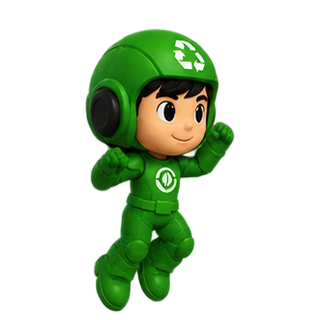
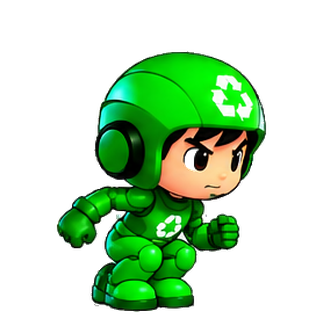
feat adiciona movimentação dos personnagens

diff --git a/frontend/src/game/playerAnim.ts b/frontend/src/game/playerAnim.ts
@@ -18,18 +18,18 @@ export type PlayerState =
   | 'idle' | 'walk' | 'run'
   | 'jumpStart' | 'jumpRise' | 'jumpApex' | 'fall' | 'landing'
   | 'attackStart' | 'attack' | 'attackRecovery'
-  | 'hurt' | 'death' | 'victory' | 'interact' | 'collect' | 'special' | 'climb';
+  | 'hurt' | 'death' | 'victory' | 'interact' | 'collect' | 'special' | 'climb' | 'crouch';
 
 /** Tempos (s) compartilhados com o motor, para pose e efeito acontecerem no mesmo instante. */
 export const HURT_TIME = 0.45;
 export const LAND_TIME = 0.2;
 export const JUMP_START_TIME = 0.07;
-export const ATTACK_START_END = 0.05;   // fim da mira (quadro 0)
+export const ATTACK_START_END = 0.06;   // fim da mira (quadro 0)
 /** Instante em que o tiro realmente sai (primeiro quadro "ativo" do golpe). */
 export const ATTACK_FIRE_T = ATTACK_START_END;
-export const ATTACK_ACTIVE_END = 0.11;  // fim do clarão de saída (quadro 1)
+export const ATTACK_ACTIVE_END = 0.12;  // fim do clarão de saída (quadro 1)
 /** Dentro da recuperação: até aqui o quadro é a rajada (2), depois o brilho se dissipando (3). */
-export const ATTACK_BLAST_END = 0.18;
+export const ATTACK_BLAST_END = 0.19;
 export const ATTACK_TOTAL = 0.28;       // fim da recuperação
 export const SPECIAL_TIME = 0.4;
 export const INTERACT_TIME = 0.45;
@@ -44,6 +44,8 @@ export interface AnimInput {
   shootT: number; specialT: number; interactT: number;
   /** Verdadeiro durante a comemoração ao chegar no portal. */
   victory: boolean;
+  /** Seta para baixo segurada (opcional): no chão e parado, o herói agacha. */
+  crouch?: boolean;
 }
 
 export interface AnimOutput { state: PlayerState; name: string }
@@ -111,6 +113,7 @@ export class PlayerAnim {
     if (i.shootT < ATTACK_TOTAL) return i.shootT < ATTACK_START_END ? 'attackStart' : i.shootT < ATTACK_ACTIVE_END ? 'attack' : 'attackRecovery';
     if (i.landT > 0 && !(LAND_TIME - i.landT > 0.07 && sp > 20)) return 'landing';
     if (i.interactT > 0 && sp < 60) return 'interact';
+    if (i.crouch && sp < 25) return 'crouch';
 
     const was = this.state;
     const moving = was === 'walk' || was === 'run' ? sp > 12 : sp > 25;
@@ -131,6 +134,7 @@ export class PlayerAnim {
       case 'fall': return this.stateT < 0.1 ? 'p_fall_0' : i.vy >= 650 ? 'p_fall_2' : f % 2 ? 'p_fall_3' : 'p_fall_1';
       case 'victory': return i.vy < -300 ? 'p_jump_1' : i.vy < 0 ? 'p_jump_3' : i.vy < 200 ? 'p_jump_4' : 'p_fall_0';
       case 'landing': return `p_land_${clamp(Math.floor((LAND_TIME - i.landT) * 15), 0, 2)}`;
+      case 'crouch': return 'p_land_1';
       case 'attackStart': return 'p_shoot_0';
       case 'attack': return 'p_shoot_1';
       case 'attackRecovery': return 'p_shoot_2';
@@ -159,7 +163,11 @@ export function heroPose(state: PlayerState, i: HeroPoseInput): { anim: string; 
     case 'attack': return { anim: 'attack', index: 1 };
     case 'attackRecovery': return { anim: 'attack', index: ATTACK_ACTIVE_END + i.stateT < ATTACK_BLAST_END ? 2 : 3 };
     case 'jumpStart': return { anim: 'jump', index: 0 };
-    case 'jumpRise': case 'jumpApex': case 'victory': return { anim: 'jump', index: 1 };
+    // subida: impulso forte (1) e depois a subida mais lenta (2); no ápice o quadro 3; vitória no ar usa a subida
+    case 'jumpRise': return { anim: 'jump', index: i.vy < -520 ? 1 : 2 };
+    case 'jumpApex': return { anim: 'jump', index: 3 };
+    case 'victory': return { anim: 'jump', index: 2 };
+    case 'crouch': return { anim: 'crouch', index: clamp(Math.floor(i.stateT * 14), 0, 2) };
     case 'fall': return { anim: 'fall', index: Math.floor(i.stateT * 8) };
     // a pose agachada só vale com o herói quase parado; correndo, segue o ciclo de corrida
     case 'landing': return i.speed > 60 ? moving() : { anim: 'land', index: i.landT > LAND_TIME / 2 ? 0 : 1 };

diff --git a/frontend/src/game/engine.ts b/frontend/src/game/engine.ts
@@ -560,7 +560,7 @@ export class Engine {
     const f = this.anim.update({
       t: p.animT, onGround: p.onGround, vx: p.vx, vy: p.vy, climbing: p.climbing, climbMoving: k.up || k.down || Math.abs(p.vx) > 20,
       dead: p.dieT > 0, dieT: p.dieT, hurtT: p.hurtT, landT: p.landT, collectT: this.collectT, shootT: p.shootT, specialT: p.specialT, interactT: this.interactT,
-      victory: !!this.win && this.win.phase === 'walk',
+      victory: !!this.win && this.win.phase === 'walk', crouch: k.down && !p.climbing,
     });
     return { name: f.name, state: f.state, alpha: p.inv > 0 && p.dieT <= 0 && Math.floor(p.inv * 14) % 2 ? 0.45 : 1 };
   }
@@ -700,7 +700,9 @@ export class Engine {
     if (!wn || wn.phase === 'walk') {
       const gy = p.onGround ? p.y + p.h : this.groundBelow(p.x + p.w / 2, p.y + p.h); if (gy !== null && p.dieT <= 0) this.shadow(p.x + p.w / 2, gy, 30, 1, p.onGround ? 0 : gy - (p.y + p.h));
       this.drawPet(ctx);
-      const hp = heroPose(pf.state as PlayerState, { stateT: this.anim.stateT, hurtT: p.hurtT, landT: p.landT, dieT: p.dieT, vy: p.vy, speed: Math.abs(p.vx) });
+      let hp = heroPose(pf.state as PlayerState, { stateT: this.anim.stateT, hurtT: p.hurtT, landT: p.landT, dieT: p.dieT, vy: p.vy, speed: Math.abs(p.vx) });
+      // heróis sem a animação de agachar (ex.: Crisogirl) usam a pose de pouso
+      if (hp.anim === 'crouch' && !(a.heroFrameCount?.(this.appearance.character, 'crouch') ?? 0)) hp = { anim: 'land', index: 1 };
       ctx.save();
       if (!(a.drawHero?.(ctx, this.appearance.character, this.appearance.skinId, hp.anim, hp.index, p.x + p.w / 2, p.y + p.h + 3, { scale: HERO_SCALE, flip: p.facing < 0, alpha: pf.alpha }) ?? false)) {
         // sem os sprites novos (arquivo ausente): volta ao atlas original

diff --git a/frontend/tests/playerAnim.test.ts b/frontend/tests/playerAnim.test.ts
@@ -96,3 +96,22 @@ describe('quadros do tiro do herói', () => {
     expect(ATTACK_FIRE_T).toBeGreaterThan(0);
   });
 });
+
+describe('agachar e quadros do Crisoman (corrida, pulo, pouso)', () => {
+  it('segurar para baixo parado no chão agacha; andando ou atirando não', () => {
+    const a = new PlayerAnim(); const st = base(); st.crouch = true; st.t += 1 / 60;
+    expect(a.update({ ...st }).state).toBe('crouch');
+    const b = new PlayerAnim(); const s2 = { ...base(), crouch: true, vx: 200, t: 1 / 60 };
+    expect(b.update(s2).state).not.toBe('crouch');
+    const c = new PlayerAnim(); const s3 = { ...base(), crouch: true, shootT: 0, t: 1 / 60 };
+    expect(c.update(s3).state).toBe('attackStart');
+  });
+  it('o atlas do Crisoman tem as animações novas e todos os quadros dentro da imagem', async () => {
+    const { readFileSync } = await import('node:fs'); const { join } = await import('node:path');
+    const dir = join(__dirname, '../public/assets/characters/crisomer');
+    const m = JSON.parse(readFileSync(join(dir, 'sprites.json'), 'utf8')) as { animations: Record<string, { frames: string[] }>; frames: Record<string, { x: number; y: number; w: number; h: number }> };
+    const png = readFileSync(join(dir, 'spritesheet.png')); const W = png.readUInt32BE(16), H = png.readUInt32BE(20);
+    expect(m.animations.run!.frames.length).toBe(6); expect(m.animations.jump!.frames.length).toBe(4); expect(m.animations.crouch!.frames.length).toBe(3);
+    for (const an of Object.values(m.animations)) for (const n of an.frames) { const f = m.frames[n]!; expect(f, n).toBeDefined(); expect(f.x + f.w).toBeLessThanOrEqual(W); expect(f.y + f.h).toBeLessThanOrEqual(H); }
+  });
+});
